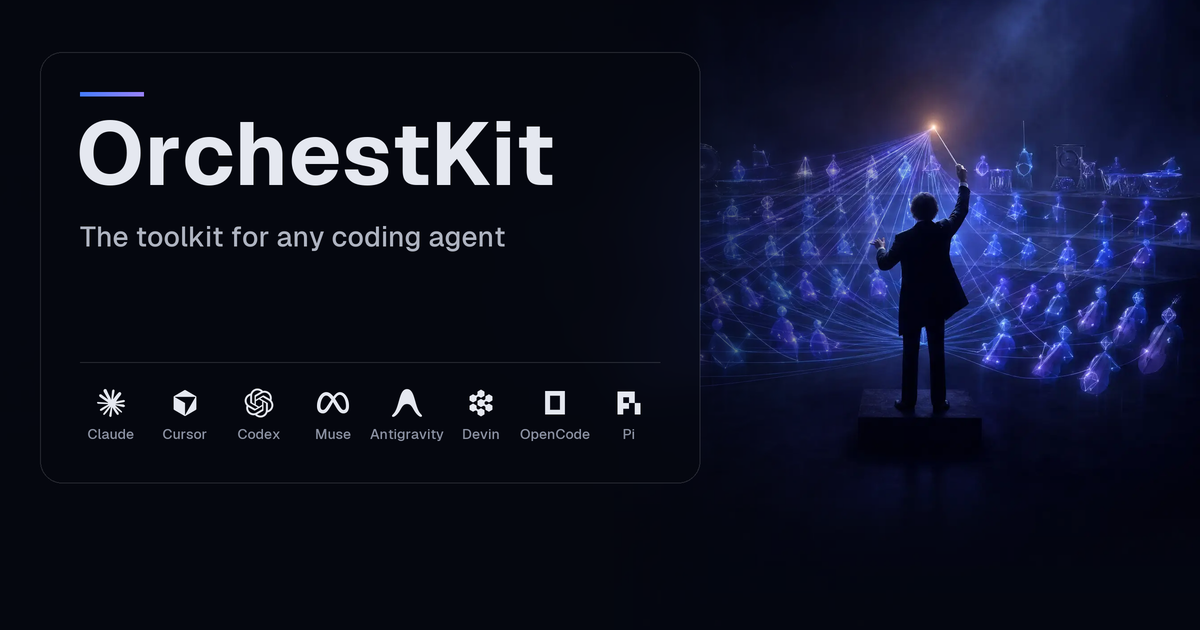
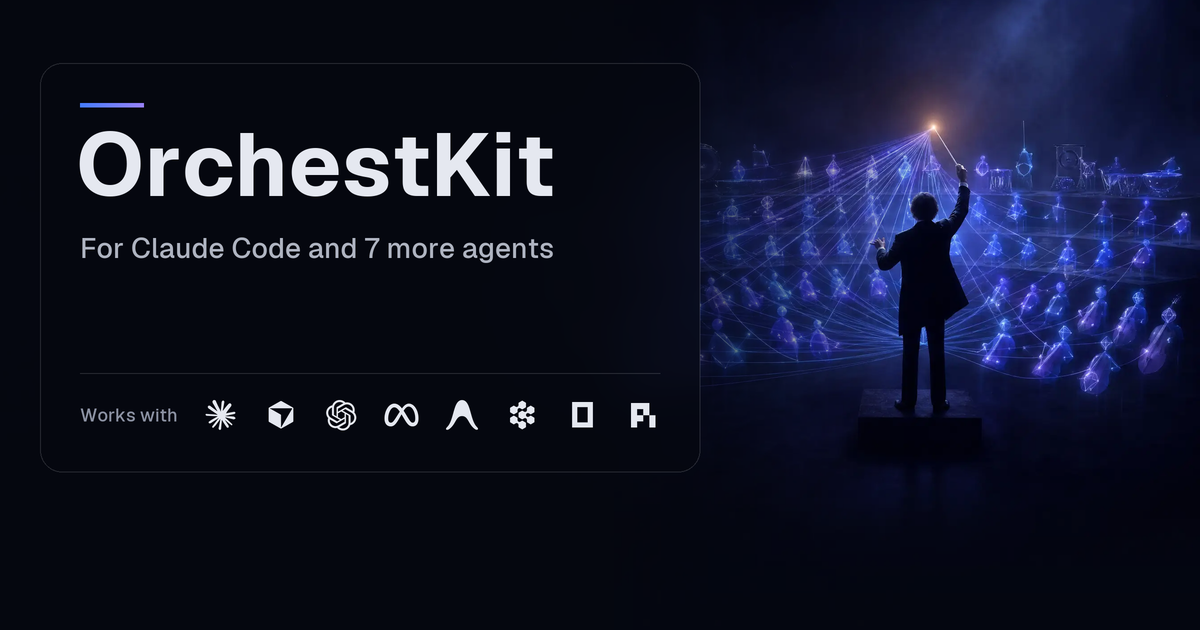
fix(site): link card brand fixes from review
Tagline 'For Claude Code and 7 more agents' derived from the host list; 'Works with' caption and no labels under the host marks; all three counts in the foreground token (amber is reserved for warnings); 'agents' to match the home page stats row. Stat words move into card-layout.json so the generator and the route share them.

Changed region(s): [[0.0617, 0.1206, 0.4625, 0.3317], [0.0617, 0.573, 0.555, 0.6937], [0.0617, 0.3619, 0.4625, 0.4222]]

diff --git a/docs/site/app/opengraph-image.tsx b/docs/site/app/opengraph-image.tsx
@@ -3,13 +3,14 @@ import { join } from "node:path";
 import { ImageResponse } from "next/og";
 import { SITE, COUNTS } from "@/lib/constants";
 
-// The art, frosted panel, wordmark and host marks are baked into card-bg.png
-// by design/og-card/card.py --site. Only the counts row is drawn here, so the
-// numbers always match TOTALS at build time. card-layout.json says where.
+// The art, frosted panel, wordmark, tagline and "Works with" host row are baked
+// into card-bg.png by design/og-card/card.py --site. Only the counts row is
+// drawn here, so the numbers always match TOTALS at build time. card-layout.json
+// says where, and carries the words so the card and the generator share them.
 import layout from "@/assets/og/card-layout.json";
 
 export const size = { width: 1200, height: 630 };
-export const alt = `${SITE.name}: ${COUNTS.skills} skills, ${COUNTS.agents} subagents and ${COUNTS.hooks} hooks for any coding agent`;
+export const alt = `${SITE.name}: ${COUNTS.skills} skills, ${COUNTS.agents} agents and ${COUNTS.hooks} hooks, for Claude Code and more coding agents`;
 export const contentType = "image/png";
 
 const asset = (name: string) => readFile(join(process.cwd(), "assets", "og", name));
@@ -20,12 +21,8 @@ export default async function OGImage() {
 		asset("Geist-Bold.ttf"),
 		asset("Geist-Medium.ttf"),
 	]);
-	const { statRow, numberSize, wordSize, wordGap, baseline, colors } = layout;
-	const stats = [
-		[COUNTS.skills, "skills"],
-		[COUNTS.agents, "subagents"],
-		[COUNTS.hooks, "hooks"],
-	] as const;
+	const { statRow, numberSize, wordSize, wordGap, baseline, words, colors } = layout;
+	const stats = [COUNTS.skills, COUNTS.agents, COUNTS.hooks].map((n, i) => [n, words[i]] as const);
 
 	return new ImageResponse(
 		(
@@ -66,7 +63,7 @@ export default async function OGImage() {
 										fontWeight: 700,
 										fontSize: numberSize,
 										lineHeight: 1,
-										color: i === 0 ? colors.first : colors.number,
+										color: colors.number,
 									}}
 								>
 									{n}

diff --git a/design/og-card/card.py b/design/og-card/card.py
@@ -1,7 +1,8 @@
 #!/usr/bin/env python3
 """Build the OrchestKit link card (1200x630): conductor art, frosted panel with
-wordmark, one line, the skills / subagents / hooks counts and the eight host
-marks. Counts are read from the repo at build time (brand.totals).
+wordmark, the tagline (brand.tagline, derived from the host list), the skills /
+agents / hooks counts (brand.totals, read from the repo) and a "Works with" row
+of the eight host marks.
 
 Renders at 2x and downsamples. Marks are sized by ink weight so blocky marks
 (OpenCode, Pi) and thin ones (Claude, Codex) read as one row. Nothing is drawn
@@ -24,7 +25,6 @@ W, H = b.W * S, b.H * S
 LEFT = 80 * S
 SAFE = b.SAFE_BOTTOM * S
 HAIR = (255, 255, 255, 34)
-LINE = "The toolkit for any coding agent"
 
 
 def fnt(name: str, px: int):
@@ -84,12 +84,12 @@ def draw_stats(img: Image.Image, d: ImageDraw.ImageDraw, box: dict[str, int], co
     docs/site/app/opengraph-image.tsx draws the same row live from TOTALS."""
     x, y, inner_w, stat_h = box["x"], box["y"], box["width"], box["height"]
     fnum, fword = fnt("Geist-Bold.ttf", 44), fnt("Geist-Medium.ttf", 24)
-    stats = [(counts["skills"], "skills"), (counts["agents"], "subagents"), (counts["hooks"], "hooks")]
+    stats = [(counts[k], b.STAT_WORDS[k]) for k in ("skills", "agents", "hooks")]
     widths = [d.textlength(str(n), font=fnum) + 8 * S + d.textlength(w, font=fword) for n, w in stats]
     gap = (inner_w - sum(widths)) / 2
     base_y, sx = y + 40 * S, x
     for i, ((n, word), w) in enumerate(zip(stats, widths)):
-        d.text((sx, base_y), str(n), font=fnum, fill=b.AMBER if i == 0 else b.FG, anchor="ls")
+        d.text((sx, base_y), str(n), font=fnum, fill=b.FG, anchor="ls")
         d.text((sx + d.textlength(str(n), font=fnum) + 8 * S, base_y), word, font=fword, fill=b.MUTED, anchor="ls")
         if i < len(stats) - 1:
             lx = sx + w + gap / 2
@@ -100,11 +100,10 @@ def draw_stats(img: Image.Image, d: ImageDraw.ImageDraw, box: dict[str, int], co
 def panel(img: Image.Image, counts: dict[str, int] | None) -> dict[str, int]:
     """Draw the panel. counts=None leaves the stat row empty for the site to fill.
     Returns the stat row box in 2x pixels."""
-    pad, box = 40 * S, 32 * S
-    cell = 74 * S
-    inner_w = len(b.HOSTS) * cell - 12 * S
+    pad, box = 40 * S, 34 * S
+    inner_w = 580 * S
     stat_h = 50 * S
-    panel_h = pad + (4 + 24 + 88 + 18 + 28 + 30) * S + stat_h + (28 + 1 + 24) * S + box + (10 + 14) * S + pad
+    panel_h = pad + (4 + 24 + 88 + 18 + 28 + 30) * S + stat_h + (28 + 1 + 24) * S + box + pad
     x0, y0 = LEFT - pad, (SAFE - panel_h) // 2
     region = (x0, y0, x0 + inner_w + 2 * pad, y0 + panel_h)
 
@@ -125,7 +124,7 @@ def panel(img: Image.Image, counts: dict[str, int] | None) -> dict[str, int]:
     y += (4 + 24) * S
     d.text((x - 4 * S, y), "OrchestKit", font=fnt("Geist-Bold.ttf", 88), fill=b.FG, anchor="lt")
     y += (88 + 18) * S
-    d.text((x, y), LINE, font=fnt("Geist-Medium.ttf", 28), fill=b.MUTED, anchor="lt")
+    d.text((x, y), b.tagline(), font=fnt("Geist-Medium.ttf", 28), fill=b.MUTED, anchor="lt")
     y += (28 + 30) * S
 
     stat_box = {"x": x, "y": y, "width": inner_w, "height": stat_h}
@@ -134,12 +133,15 @@ def panel(img: Image.Image, counts: dict[str, int] | None) -> dict[str, int]:
     y += stat_h + 28 * S
 
     overlay(img, lambda o: o.line([(x, y), (x + inner_w, y)], fill=HAIR, width=S))
+    # "Works with" frames the row as compatibility, not partnership. No name
+    # labels: at 500 px feed width they shrink to about 6 px.
     y += (1 + 24) * S + box // 2
-    flabel = fnt("Geist-Medium.ttf", 14)
-    for i, (host, label) in enumerate(b.HOSTS):
-        cx = x + cell / 2 - 6 * S + i * cell
-        put(img, mark(host, box), cx, y)
-        d.text((cx, y + box // 2 + 10 * S), label, font=flabel, fill=b.DIM, anchor="mt")
+    fcap = fnt("Geist-Medium.ttf", 18)
+    d.text((x, y), "Works with", font=fcap, fill=b.DIM, anchor="lm")
+    start = x + d.textlength("Works with", font=fcap) + 26 * S + box / 2
+    step = (x + inner_w - box / 2 - start) / (len(b.HOSTS) - 1)
+    for i, (host, _) in enumerate(b.HOSTS):
+        put(img, mark(host, box), start + i * step, y)
     return stat_box
 
 
@@ -173,8 +175,8 @@ def write_site_assets(art: Image.Image) -> None:
         "wordSize": 24,
         "wordGap": 8,
         "baseline": 40,
+        "words": [b.STAT_WORDS[k] for k in ("skills", "agents", "hooks")],
         "colors": {
-            "first": hexcolor(b.AMBER),
             "number": hexcolor(b.FG),
             "word": hexcolor(b.MUTED),
             "divider": "rgba(255, 255, 255, 0.13)",

diff --git a/design/og-card/test_brand.py b/design/og-card/test_brand.py
@@ -54,3 +54,25 @@ def test_every_host_has_a_mark_source():
     for host, _ in brand.HOSTS:
         vendored = os.path.exists(os.path.join(brand.HERE, "marks", f"{host}.svg"))
         assert vendored or f"\t{host}: '" in marks, host
+
+
+def test_tagline_counts_hosts_after_claude_code(monkeypatch):
+    assert brand.tagline() == f"For Claude Code and {len(brand.HOSTS) - 1} more agents"
+    monkeypatch.setattr(brand, "HOSTS", brand.HOSTS + [("zed", "Zed")])
+    assert brand.tagline() == f"For Claude Code and {len(brand.HOSTS) - 1} more agents"
+
+
+def test_tagline_refuses_a_list_that_does_not_lead_with_claude(monkeypatch):
+    monkeypatch.setattr(brand, "HOSTS", list(reversed(brand.HOSTS)))
+    with pytest.raises(SystemExit):
+        brand.tagline()
+
+
+def test_stat_words_match_the_home_page_stats_row():
+    home = open(os.path.join(brand.ROOT, "docs", "site", "app", "(home)", "page.tsx")).read()
+    for key, word in brand.STAT_WORDS.items():
+        assert f"{{COUNTS.{key}}} {word}" in home, word
+
+
+def test_warning_amber_is_not_a_card_token():
+    assert not hasattr(brand, "AMBER")

diff --git a/design/og-card/brand.py b/design/og-card/brand.py
@@ -20,7 +20,6 @@ MUTED = (175, 180, 193)
 DIM = (140, 146, 163)
 INDIGO = (69, 124, 253)
 VIOLET = (153, 130, 248)
-AMBER = (221, 176, 73)
 
 # Every host the docs ship an install path for, in card order. Marks come from
 # docs/site/components/host-marks.tsx or marks/ (see marks/SOURCES.md).
@@ -34,6 +33,19 @@ HOSTS = [
     ("opencode", "OpenCode"),
     ("pi", "Pi"),
 ]
+
+
+def tagline() -> str:
+    """"For Claude Code and N more agents", with N counted from HOSTS, the same
+    list the logo row renders, so adding or removing a host updates both."""
+    lead, _ = HOSTS[0]
+    if lead != "claude":
+        sys.exit(f"HOSTS must start with claude for the tagline, got {lead!r}")
+    return f"For Claude Code and {len(HOSTS) - 1} more agents"
+
+
+# Words beside the counts, matching the home page stats row (app/(home)/page.tsx).
+STAT_WORDS = {"skills": "skills", "agents": "agents", "hooks": "hooks"}
 
 
 def skill_count() -> int:

diff --git a/design/og-card/test_card.py b/design/og-card/test_card.py
@@ -36,3 +36,15 @@ def test_translucent_overlay_blends_instead_of_replacing():
     px = img.getpixel((5, 5))
     assert isinstance(px, tuple)
     assert 20 < px[0] < 60 and px[3] == 255
+
+
+def test_site_layout_carries_the_stat_words_and_one_number_colour(tmp_path, monkeypatch):
+    import json
+
+    monkeypatch.setattr(card, "SITE_ASSETS", str(tmp_path))
+    card.write_site_assets(Image.new("RGB", (2048, 1152), brand.BG))
+    layout = json.loads((tmp_path / "card-layout.json").read_text())
+    assert layout["words"] == ["skills", "agents", "hooks"]
+    assert set(layout["colors"]) == {"number", "word", "divider"}
+    row = layout["statRow"]
+    assert row["y"] + row["height"] < brand.SAFE_BOTTOM
